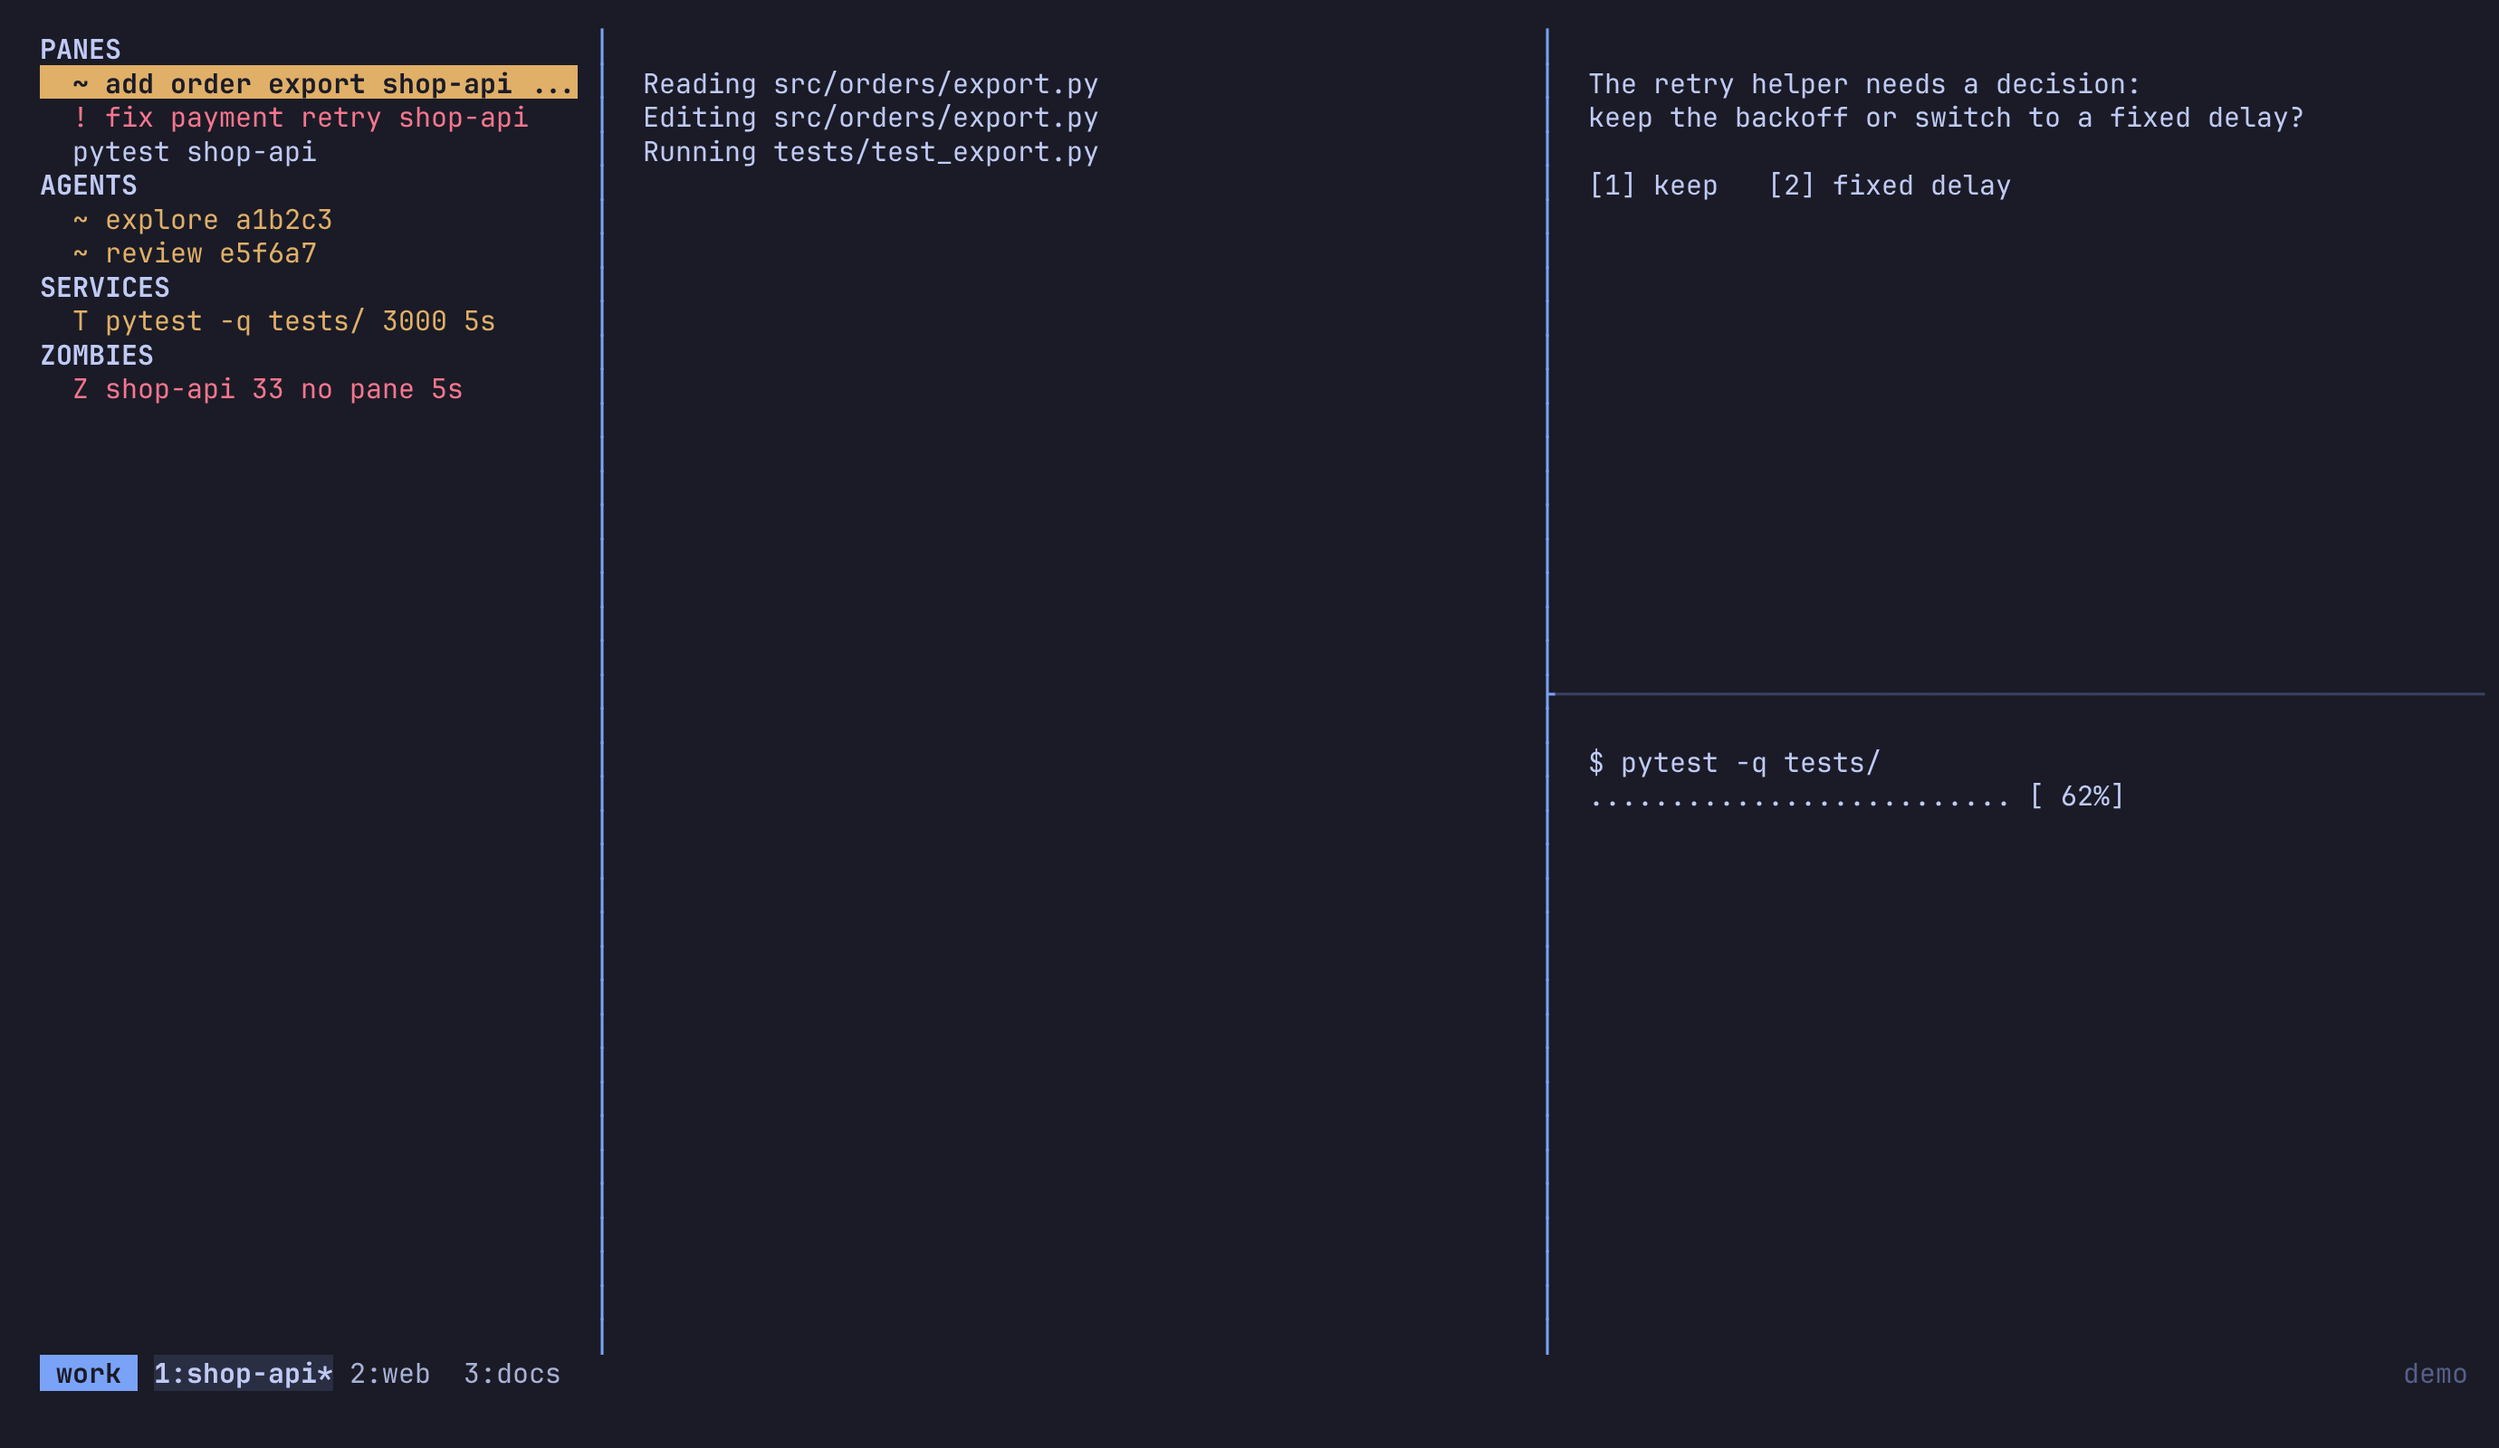
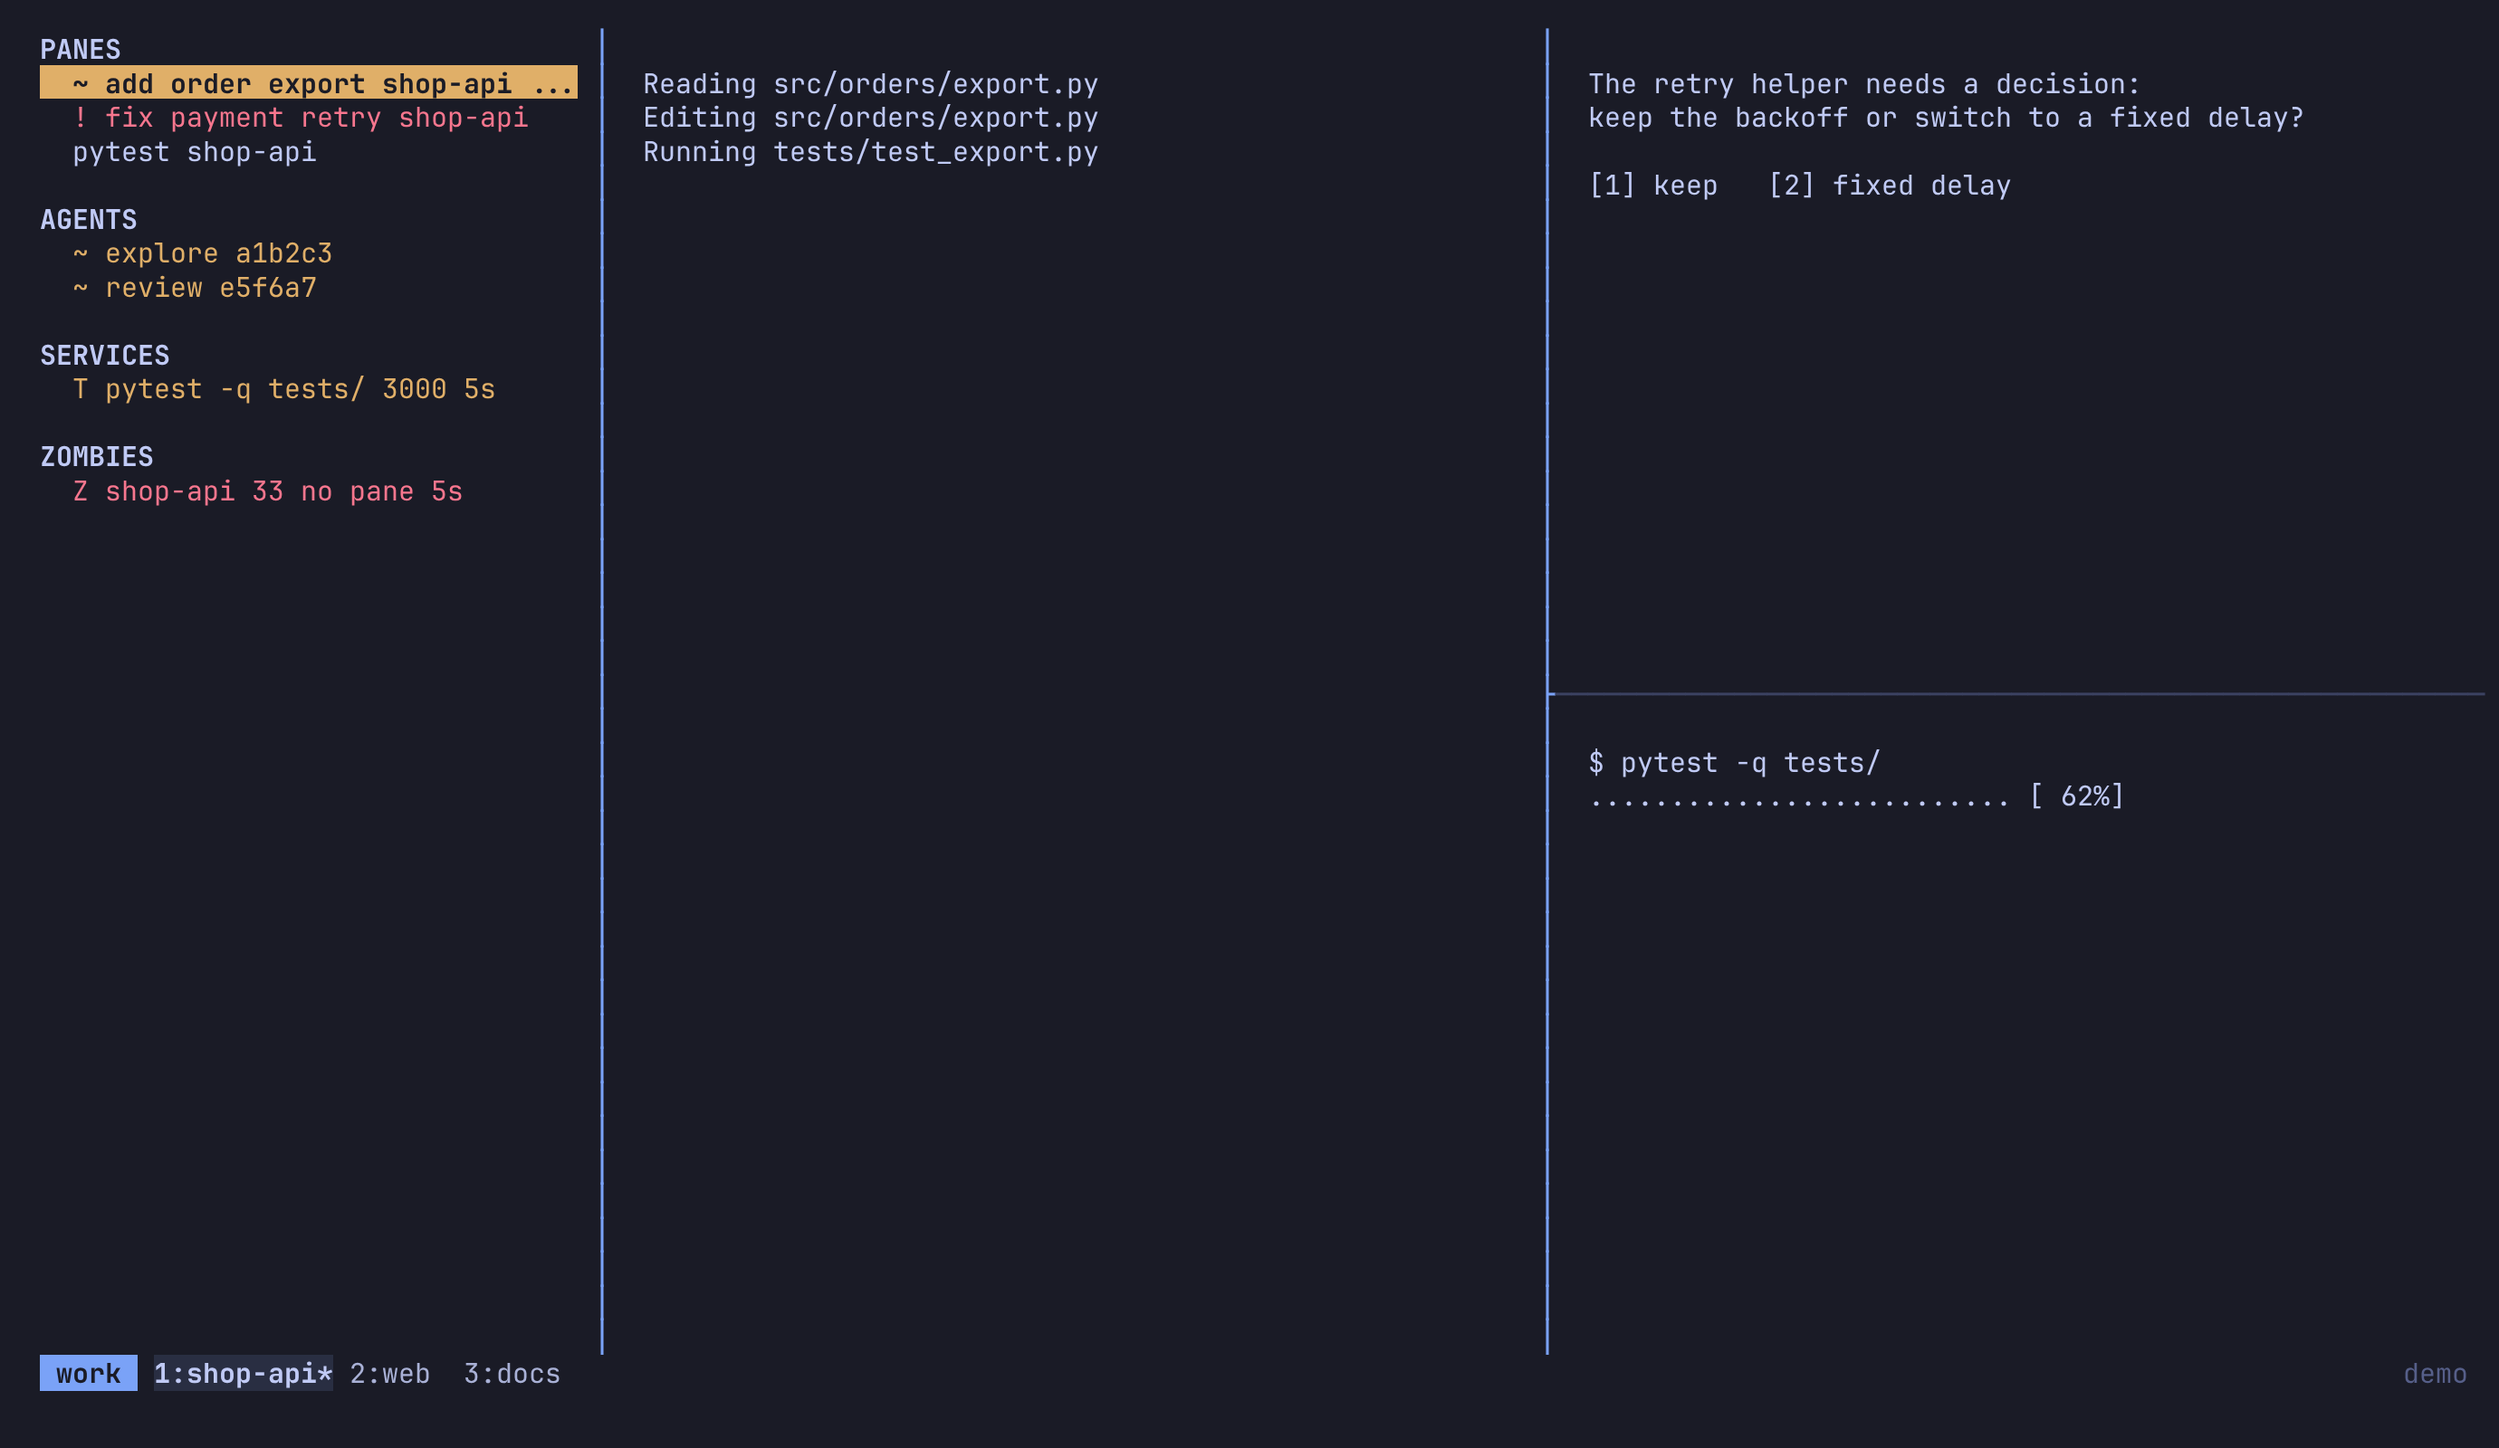
fix(panel): draw the menu at the bottom of the panel

Changed region(s): [[0.0, 0.125, 0.187, 0.2812], [0.0312, 0.3125, 0.0935, 0.3438], [0.1246, 0.3125, 0.1558, 0.3438]]

diff --git a/tests/test_screen_layout.py b/tests/test_screen_layout.py
@@ -31,8 +31,16 @@ class TestLineOfSelection:
 
 class TestComposeScreen:
     def test_everything_that_fits_is_shown_in_order(self):
-        screen = compose_screen(numbered(3), [footer_line("note")], 10, 0)
+        screen = compose_screen(numbered(3), [footer_line("note")], 4, 0)
         assert texts(screen) == ["line 0", "line 1", "line 2", "note"]
+
+    def test_a_short_body_leaves_blank_lines_so_the_footer_is_at_the_bottom(self):
+        screen = compose_screen(numbered(2), [footer_line("note")], 5, 0)
+        assert texts(screen) == ["line 0", "line 1", "", "", "note"]
+        assert [line.kind for line in screen[2:4]] == ["blank", "blank"]
+
+    def test_a_screen_without_a_footer_is_not_padded(self):
+        assert texts(compose_screen(numbered(2), [], 5, 0)) == ["line 0", "line 1"]
 
     def test_the_footer_stays_at_the_bottom_and_the_body_gives_way(self):
         screen = compose_screen(numbered(10), [footer_line("note")], 5, 0)

diff --git a/src/tmux_sidepanel/screen_layout.py b/src/tmux_sidepanel/screen_layout.py
@@ -1,6 +1,8 @@
 """Fitting the lines of the panel and the footer on a screen of a given height."""
 
-from tmux_sidepanel.panel_layout import Line
+from tmux_sidepanel.panel_layout import NO_SELECTION, Line
+
+BLANK = Line("", "blank", "", False, NO_SELECTION)
 
 
 def line_of_selection(lines: list[Line], selection_index: int) -> int:
@@ -22,4 +24,6 @@ def compose_screen(
     kept_footer = footer[: max(height, 0)]
     body_height = max(height - len(kept_footer), 0)
     first = first_visible_line(len(body), body_height, selected_line)
-    return body[first : first + body_height] + kept_footer
+    shown = body[first : first + body_height]
+    padding = [BLANK] * (body_height - len(shown)) if kept_footer else []
+    return shown + padding + kept_footer
